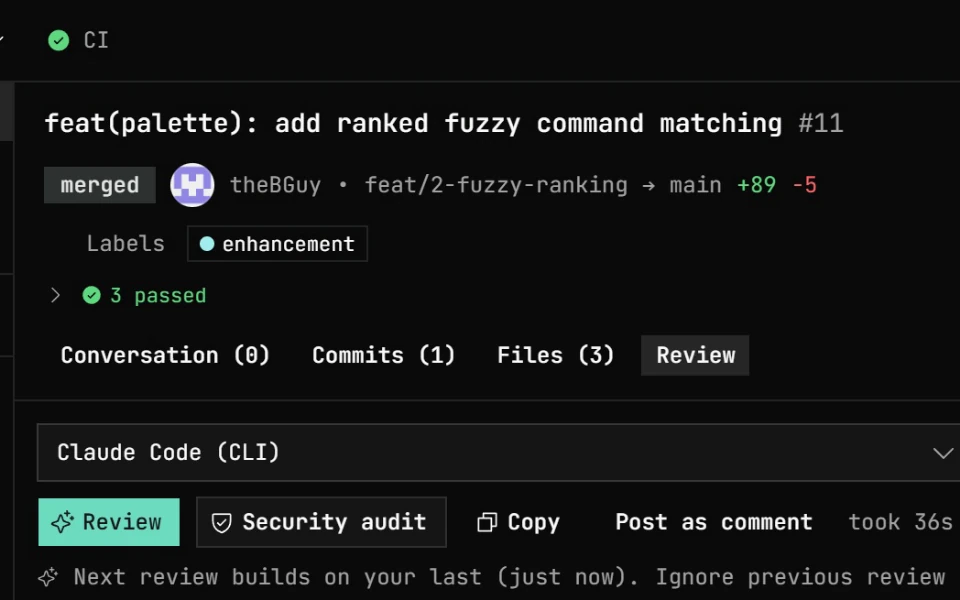
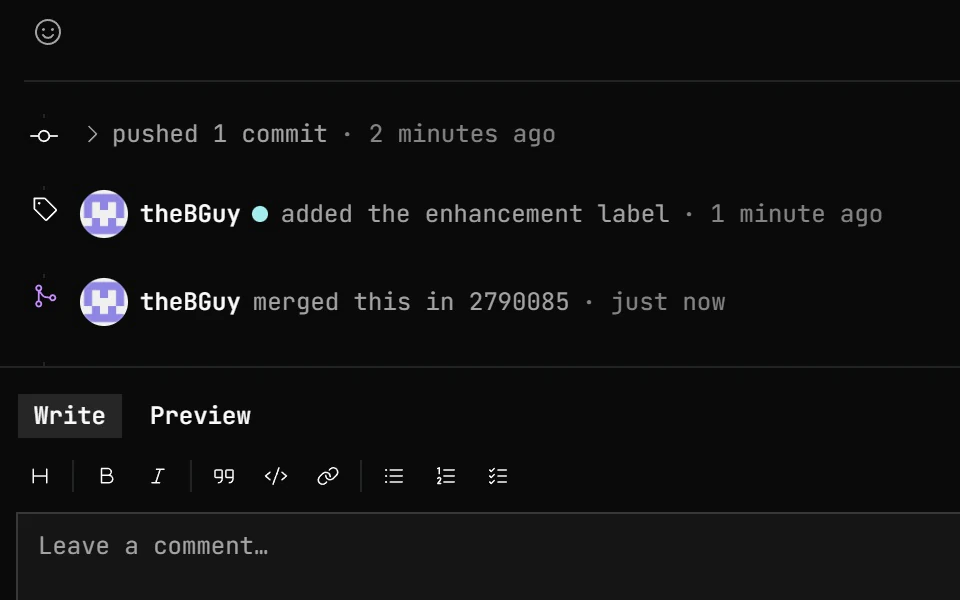
feat(site,docs): refresh product demo loop
Update the README demo animation and reduced-motion poster to show the complete workflow from staging and AI-generated commit messages through pull request checks and squash merging. Refresh the image alternative text to accurately describe the new sequence.

diff --git a/README.md b/README.md
@@ -34,7 +34,7 @@ active account per host.
 
 <picture>
   <source media="(prefers-reduced-motion: reduce)" srcset="site/src/assets/readme/loop-poster.webp">
-  <img src="site/src/assets/readme/loop.gif" width="960" alt="GitDesktop's whole pull request loop in one window: an AI commit message streams into the composer, the new pull request dialog drafts its title and description, and Squash and merge marks the pull request merged">
+  <img src="site/src/assets/readme/loop.gif" width="960" alt="GitDesktop committing three staged files with an AI-written message, publishing the branch, opening a pull request with an AI-drafted title and description, watching its three checks pass, and squash-merging it with the remote branch deleted">
 </picture>
 
 ## Install
